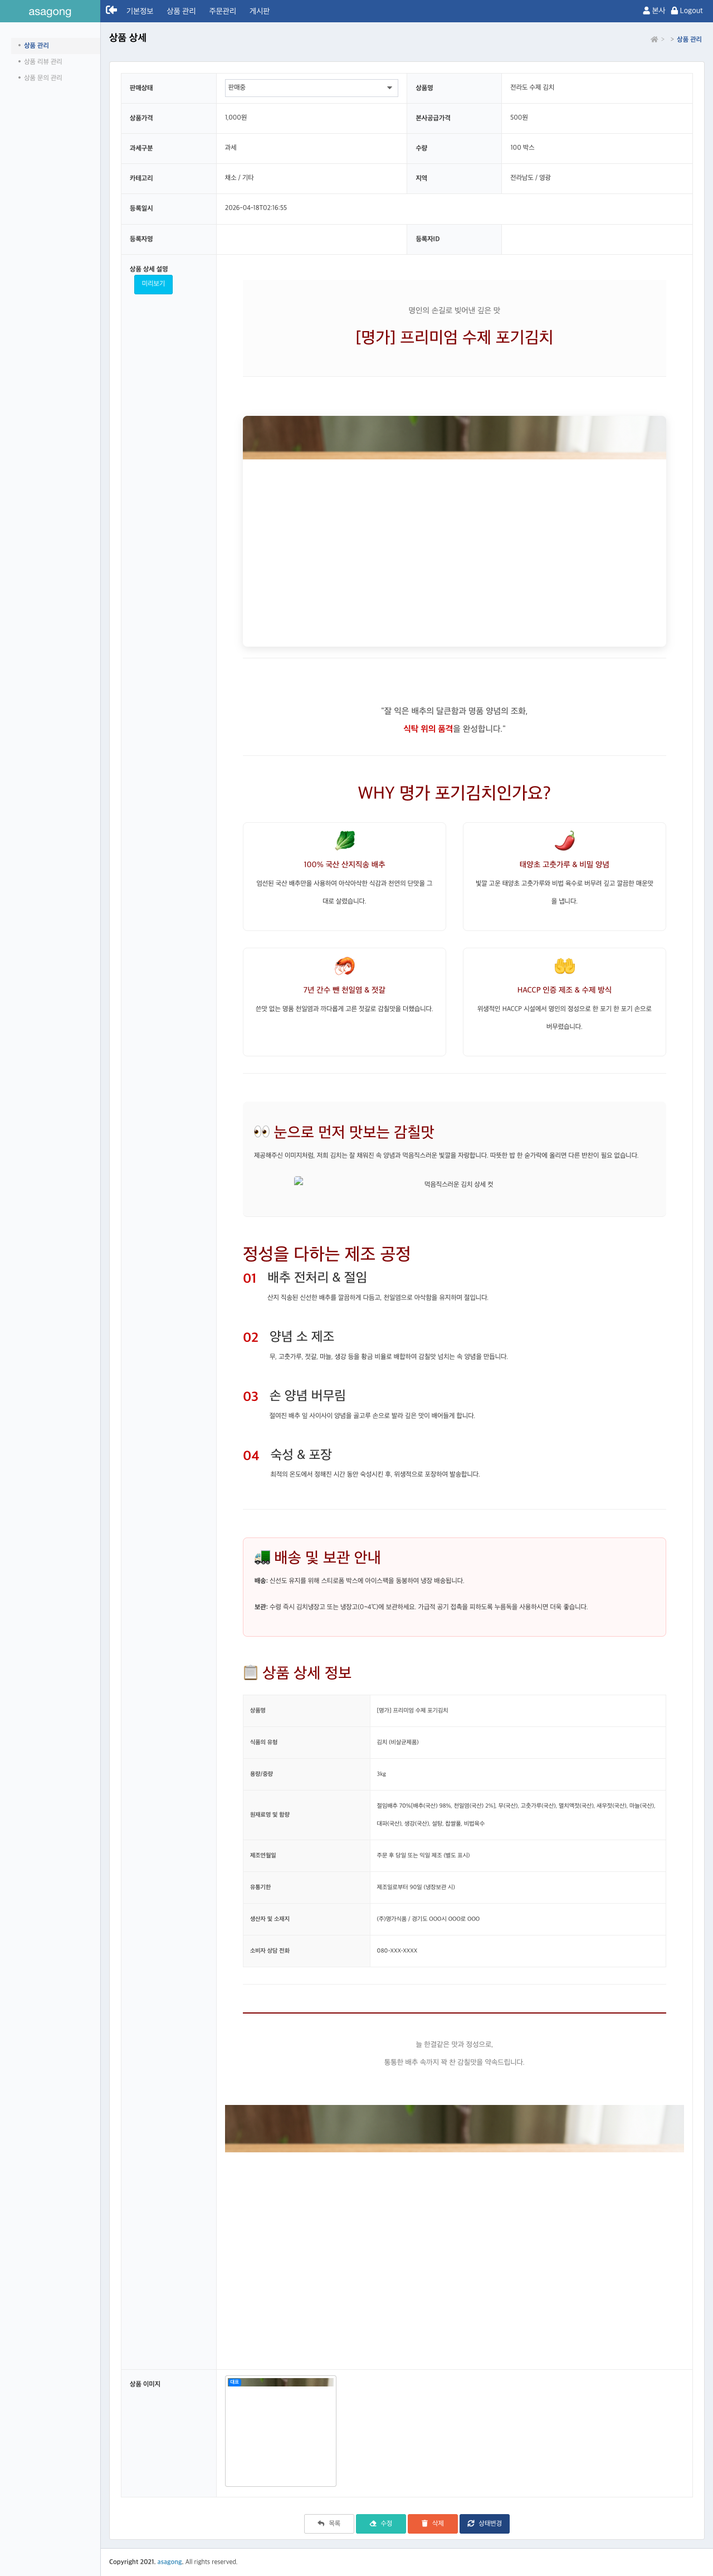
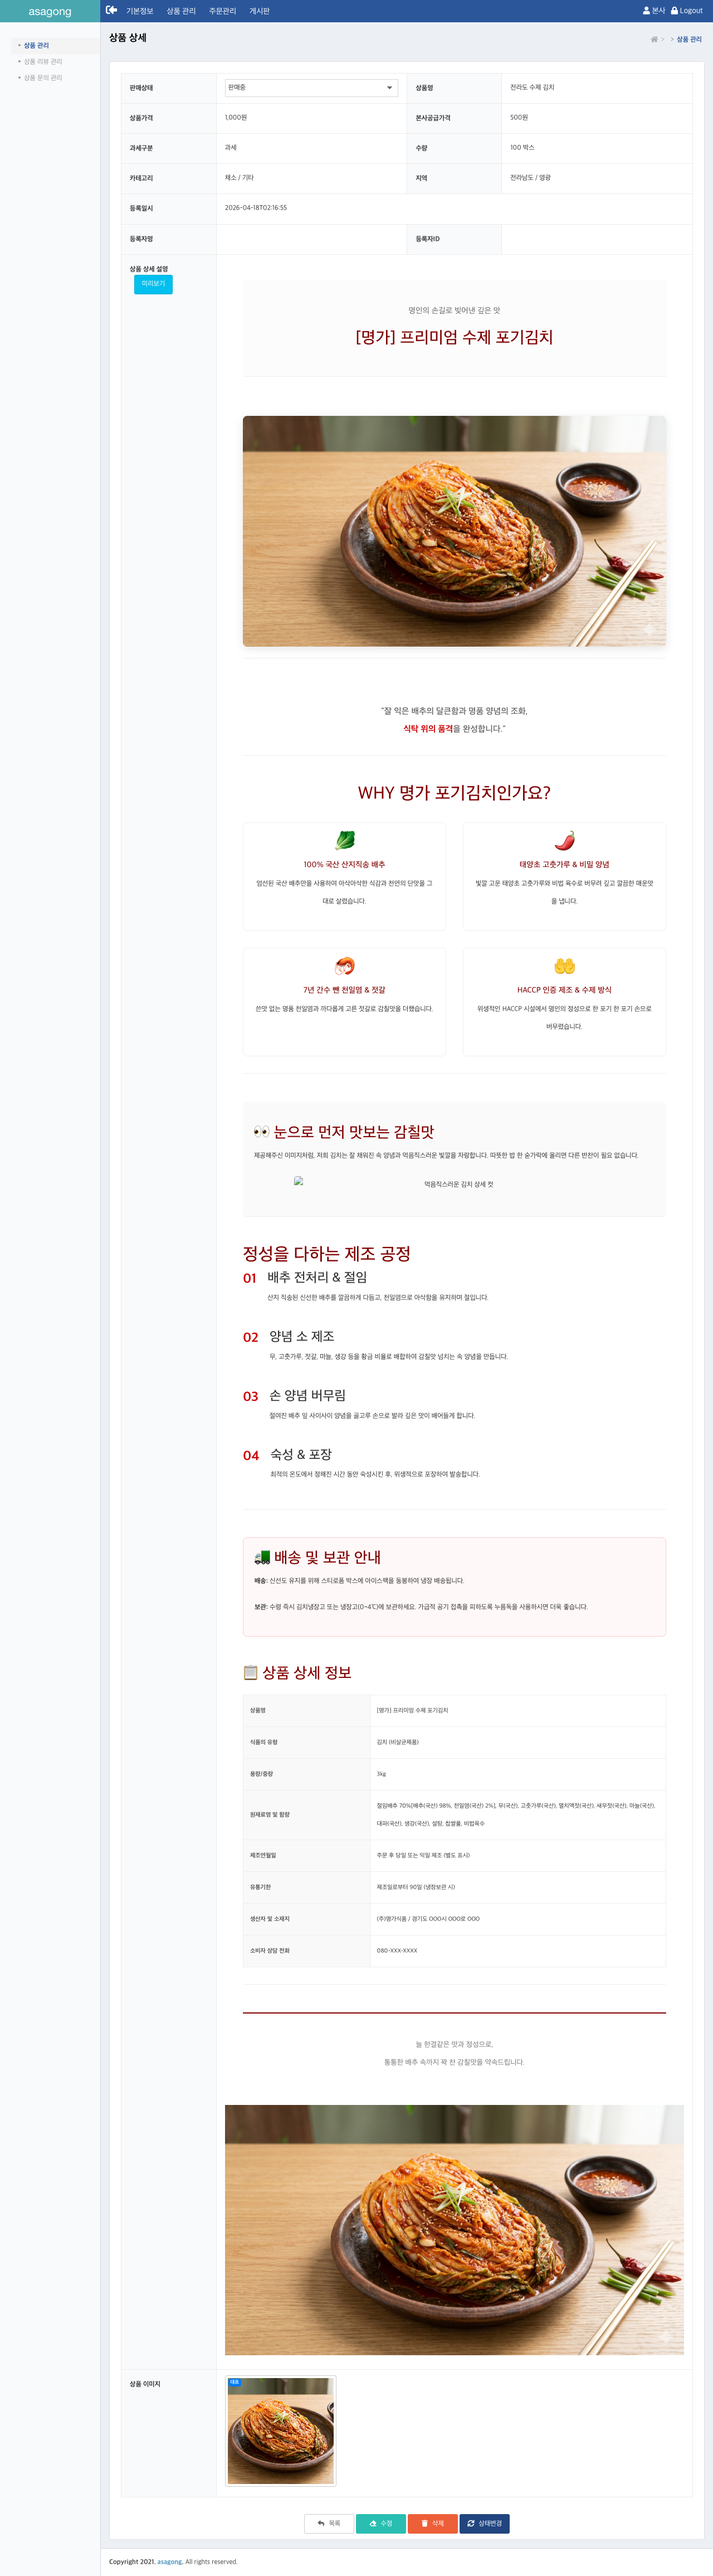
docs: update manual titles and recaptured images

Changed region(s): [[0.3125, 0.8102, 0.9688, 0.966], [0.3438, 0.1558, 0.9375, 0.2493]]

diff --git a/src/main/resources/static/manual/menual_index.html b/src/main/resources/static/manual/menual_index.html
@@ -19,9 +19,9 @@
         <p>권한별 온라인 가이드입니다. 원하시는 메뉴얼을 선택해주세요.</p>
         <ul>
             <li><a href="menual_process.html">1. 전체 업무 프로세스 안내</a></li>
-            <li><a href="menual_sell.html">2. 본사 (ROLE_SELL) 운영 관리자 메뉴얼</a></li>
-            <li><a href="menual_proj.html">3. 지점 (ROLE_PROJ) 판매자 메뉴얼</a></li>
-            <li><a href="menual_pub.html">4. 구매자 (ROLE_PUB) 일반 사용자 메뉴얼</a></li>
+            <li><a href="menual_sell.html">2. 본사운영 메뉴얼</a></li>
+            <li><a href="menual_proj.html">3. 판매지점 메뉴얼</a></li>
+            <li><a href="menual_pub.html">4. 일반사용자(구매자) 메뉴얼</a></li>
         </ul>
     </div>
 </body>

diff --git a/src/main/resources/static/manual/menual_pub.html b/src/main/resources/static/manual/menual_pub.html
@@ -2,7 +2,7 @@
 <html>
 <head>
     <meta charset="utf-8">
-    <title>구매자 (ROLE_PUB) 메뉴얼</title>
+    <title>구매자 일반 사용자 메뉴얼</title>
     <style>
         body { font-family: 'Segoe UI', Tahoma, Geneva, Verdana, sans-serif; margin: 0; background-color: #f8f9fa; color: #333; line-height: 1.6; }
         .sidebar { width: 250px; position: fixed; height: 100%; background: #e67e22; color: white; padding-top: 20px; }

diff --git a/src/main/resources/static/manual/menual_sell.html b/src/main/resources/static/manual/menual_sell.html
@@ -2,7 +2,7 @@
 <html>
 <head>
     <meta charset="utf-8">
-    <title>본사 (ROLE_SELL) 메뉴얼</title>
+    <title>본사 관리자 메뉴얼</title>
     <style>
         body { font-family: 'Segoe UI', Tahoma, Geneva, Verdana, sans-serif; margin: 0; background-color: #f0f2f5; color: #333; line-height: 1.6; }
         .sidebar { width: 250px; position: fixed; height: 100%; background: #343a40; color: white; padding-top: 20px; }

diff --git a/src/main/resources/static/manual/menual_proj.html b/src/main/resources/static/manual/menual_proj.html
@@ -2,7 +2,7 @@
 <html>
 <head>
     <meta charset="utf-8">
-    <title>지점 (ROLE_PROJ) 메뉴얼</title>
+    <title>판매지점메뉴얼</title>
     <style>
         body { font-family: 'Segoe UI', Tahoma, Geneva, Verdana, sans-serif; margin: 0; background-color: #f0f2f5; color: #333; line-height: 1.6; }
         .sidebar { width: 250px; position: fixed; height: 100%; background: #2c3e50; color: white; padding-top: 20px; }
